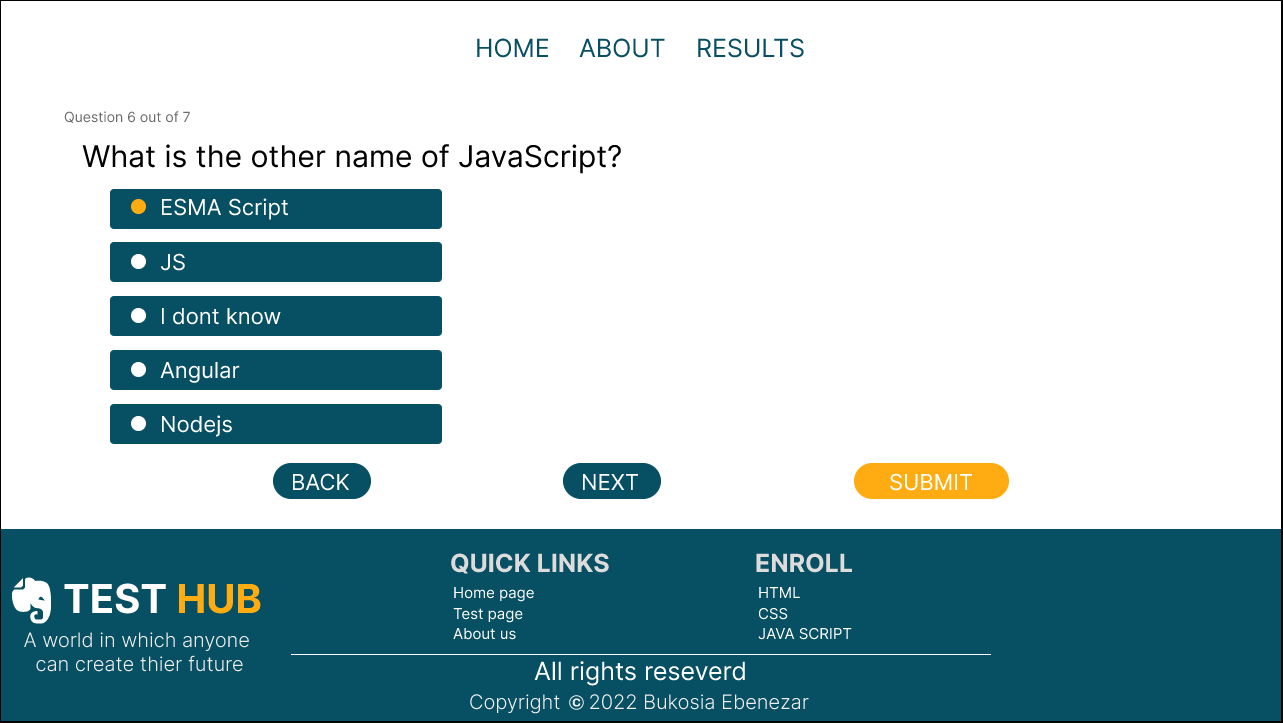
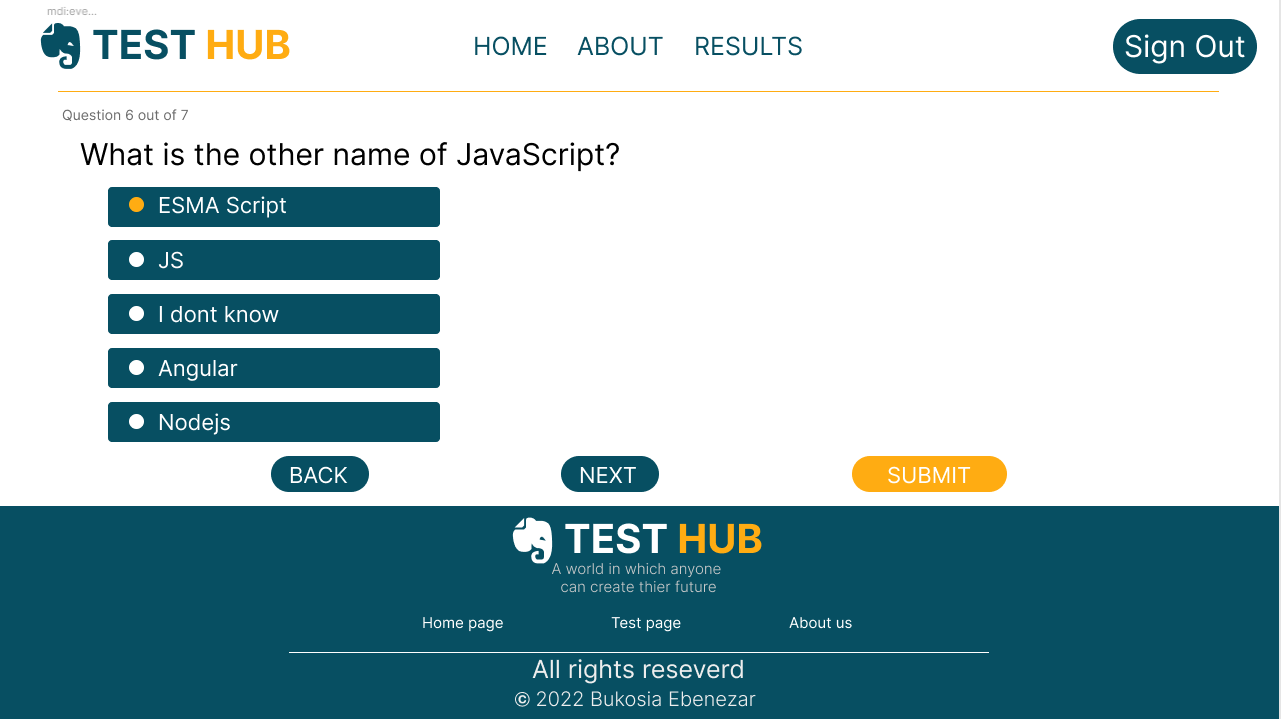
feat: add test page with its nav bar and footer styling

diff --git a/assets/pages/test.html b/assets/pages/test.html
@@ -1,0 +1,62 @@
+<!DOCTYPE html>
+<html lang="en">
+
+<head>
+    <meta charset="UTF-8">
+    <meta http-equiv="X-UA-Compatible" content="IE=edge">
+    <meta name="viewport" content="width=device-width, initial-scale=1.0">
+    <title>Test</title>
+        <!-- FontAwesome -->
+        <link rel="stylesheet" href="https://use.fontawesome.com/releases/v5.0.8/css/all.css" integrity="sha384-3AB7yXWz4OeoZcPbieVW64vVXEwADiYyAEhwilzWsLw+9FgqpyjjStpPnpBO8o8S" crossorigin="anonymous">
+    
+        <link rel="stylesheet" href="https://cdn.jsdelivr.net/npm/@fortawesome/fontawesome-free@5.15.4/css/fontawesome.min.css" integrity="sha384-jLKHWM3JRmfMU0A5x5AkjWkw/EYfGUAGagvnfryNV3F9VqM98XiIH7VBGVoxVSc7" crossorigin="anonymous">
+        
+        <link rel="stylesheet" href="https://cdnjs.cloudflare.com/ajax/libs/font-awesome/6.0.0-beta2/css/all.min.css" integrity="sha512-YWzhKL2whUzgiheMoBFwW8CKV4qpHQAEuvilg9FAn5VJUDwKZZxkJNuGM4XkWuk94WCrrwslk8yWNGmY1EduTA==" crossorigin="anonymous" referrerpolicy="no-referrer" />
+    
+    <link rel="stylesheet" href="../css/header.css">
+    <link rel="stylesheet" href="../css/testFooter.css">
+</head>
+
+<body>
+    <main>
+    <header>
+        <!-- header section -->
+        <header>
+            <nav>
+                <ul>
+                    <li><i class='fab fa-evernote'></i><strong>TEST HUB</strong></li>
+                    <li class="pushRight"><a class="active" href="../../index.html">Home</a></li>
+                </ul>
+            </nav>
+        </header>
+        <article>
+
+        </article>
+
+
+    </header>
+    <!-- footer -->
+    <footer>
+        <div class="brand">
+            <i class='fab fa-evernote'></i><strong>TEST HUB</strong>
+            <h4>A world in which anyone can create their future</h4>
+        </div>
+        <div class="footerNav">
+            <ul>
+                <li><a href="">Home Page</a></li>
+                <li><a href="">Test Page</a></li>
+                <li><a href="">About Page</a></li>
+            </ul>
+        </div>
+        <hr>
+        <div class="copyright">
+            <h2>All rights reserved</h2>
+            <a href="https://github.com/Ebenezr" target="self">
+                <h3>2022 Ebenezr</h3>
+            </a>
+        </div>
+    </footer>
+    </main>
+</body>
+
+</html>

diff --git a/assets/css/testFooter.css b/assets/css/testFooter.css
@@ -1,0 +1,66 @@
+main{
+    position: relative;
+    height: 100vh;
+    width: 100vw;
+}
+footer{
+    position: absolute;
+    bottom: 0;
+    width: 100%;
+    height:30vh;
+    display:flex;
+    flex-direction:column;
+    justify-content: center;
+    color:white;
+    background-color: #074F62;
+    text-align: center;
+    
+}
+footer strong{
+    font-family: 'Oswald', sans-serif;
+    font-weight: 600;
+    font-size: 2.5em;
+    color:#fff;
+}
+footer i{
+    font-size: 2.5em;
+    margin-right: 0.2em;
+}
+.brand h4{
+    font-size:1em;
+    margin:0;
+    
+}
+hr{
+    width: 80%;
+    color:#fff;
+    
+}
+.copyright a{
+    text-decoration:none;
+    color:#fff;
+    font-weight: 300;
+
+}
+.copyright a:hover{
+    color:#FFAC12;
+
+}
+.footerNav ul{
+    height:auto;
+    width:100%;
+    display: flex;
+    flex-direction: row;
+    justify-content:center;
+    gap:9em;
+    margin: 1em 0;
+   
+}
+.footerNav a{
+    color:#fff;
+
+}
+.footerNav a:hover{
+    color:#FFAC12;
+    transform: scale(1,2);
+}
